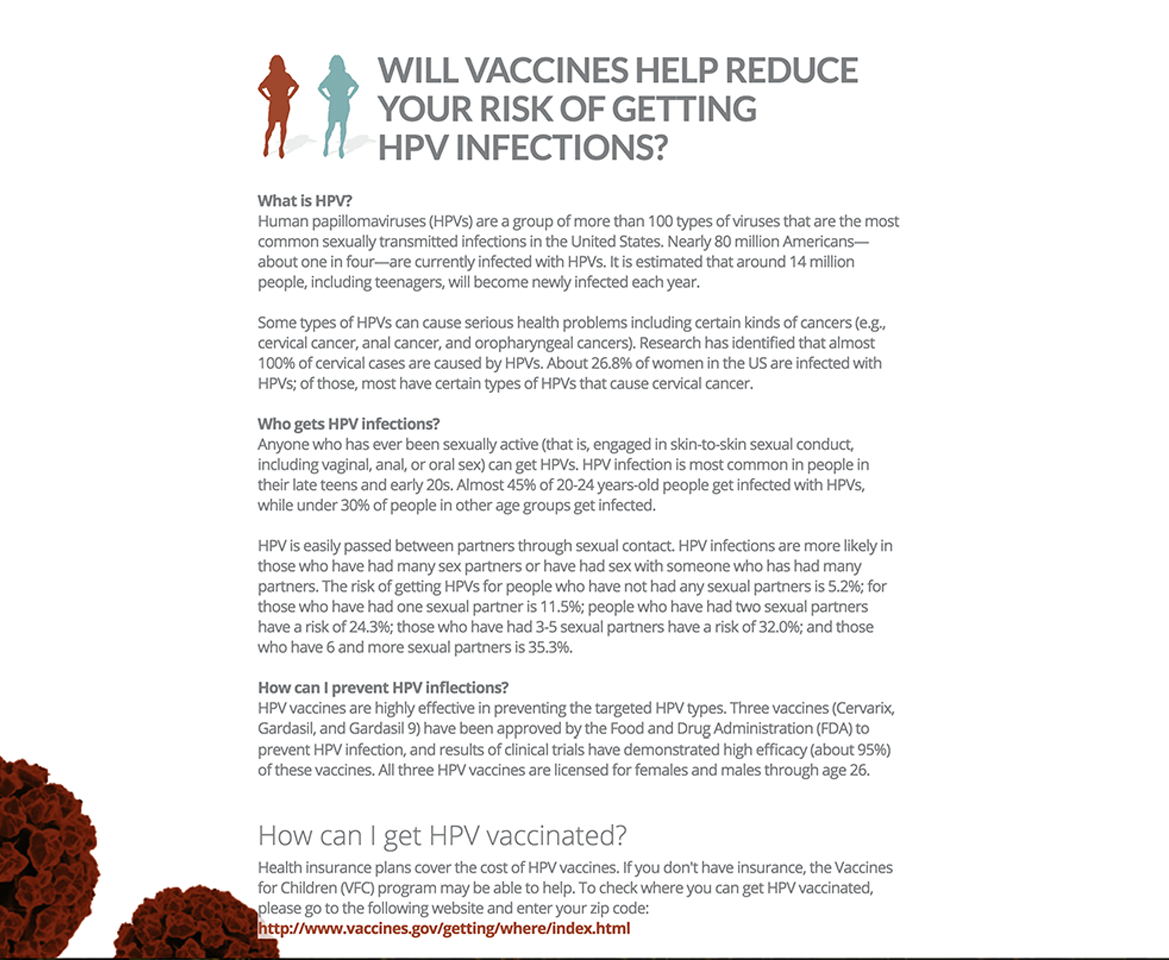
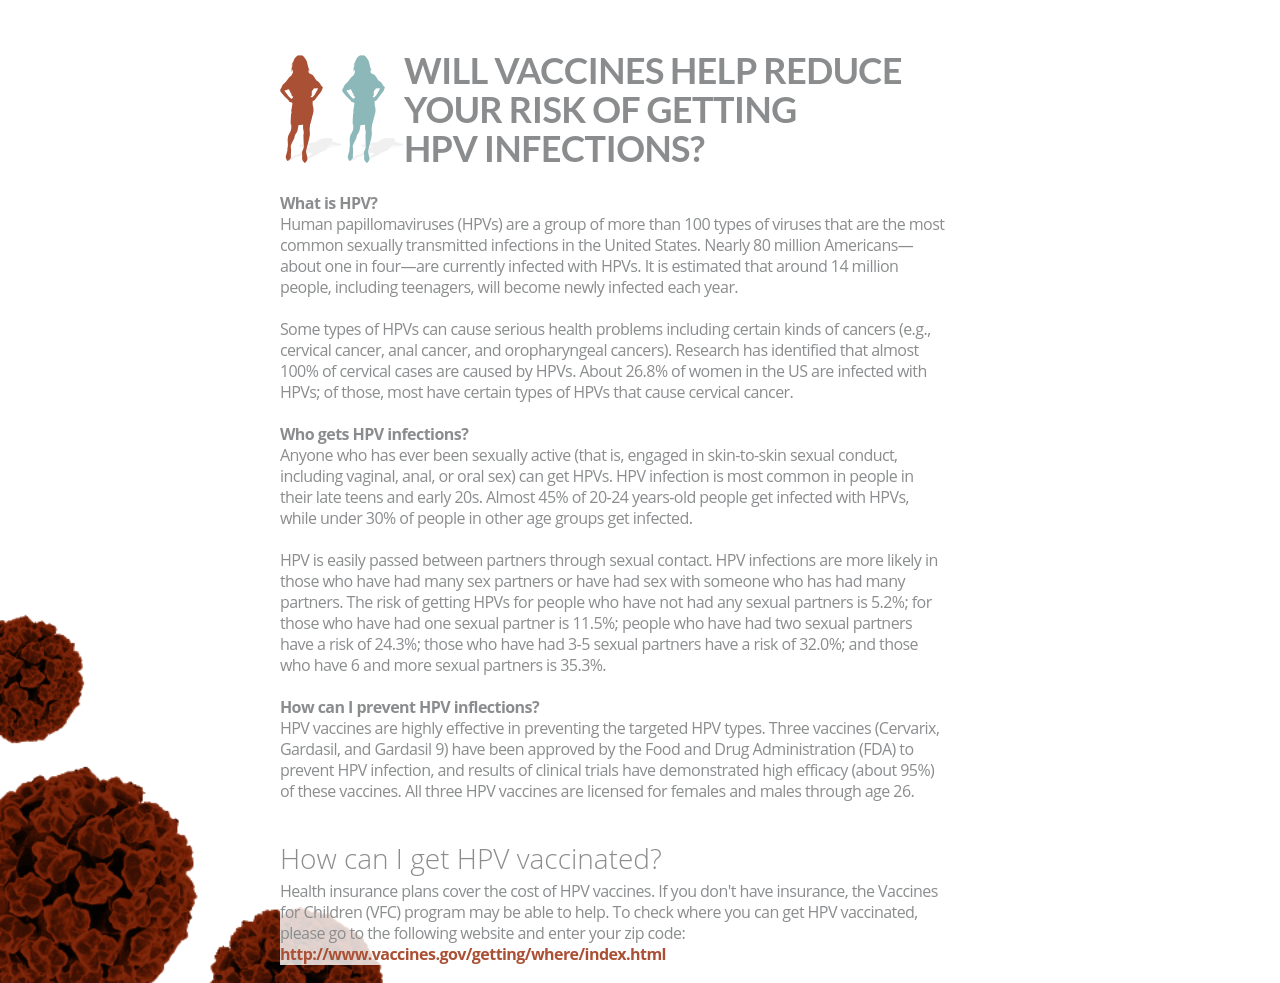
updated text

diff --git a/index.html b/index.html
@@ -22,61 +22,12 @@
 </head>
 
 <body>
-	
-		<div class="container full-height">
-			<div class=v-align-parent>
-				<div class=v-center>
-					<div class="row">
-                        <div class="col-md-2">
-                        
-                        </div>
-						<div class="col-md-8">	
+
                             <div style="overflow:auto;">
-                           <img style=" float:left; display:inline" src="https://cibonaydames.github.io/hpv/img/silueta-red.svg" alt="red lady" width="62"><img style=" float:left; display:inline" src="https://cibonaydames.github.io/hpv/img/silueta-blue.svg" alt="red lady" width="62">
+                           <img style=" float:left; display:inline" src="https://cibonaydames.github.io/hpv-written/img/written.png" alt="graphic" width="">
                               
-                         <span style="font-family: Lato, sans-serif">
-                            <h1 class="mb-10 heading">Will Vaccines Help Reduce</h1>
-                             <h1 class="mb-10 heading">Your Risk of Getting</h1>
-                             <h1 class="mb-10 heading">HPV Infections?</h1></div>
-                           <br>
-                            <div class="subheading mb-20">
-                                
-                                    <p><b>What is HPV?</b>
-                                    <br>
-                                    Human papillomaviruses (HPVs) are a group of more than 100 types of viruses that are the most common sexually transmitted infections in the United States. Nearly 80 million Americans—about one in four—are currently infected with HPVs. It is estimated that around 14 million people, including teenagers, will become newly infected each year. 
-                                    <br><br>
-                                    Some types of HPVs can cause serious health problems including certain kinds of cancers (e.g., cervical cancer, anal cancer, and oropharyngeal cancers). Research has identified that almost 100% of cervical cases are caused by HPVs. About 26.8% of women in the US are infected with HPVs; of those, most have certain types of HPVs that cause cervical cancer.
-                                    </p>
-                                    <br>
-                                    <p><b>Who gets HPV infections?</b>
-                                    <br>
-                                    Anyone who has ever been sexually active (that is, engaged in skin-to-skin sexual conduct, including vaginal, anal, or oral sex) can get HPVs. HPV infection is most common in people in their late teens and early 20s. Almost 45% of 20-24 years-old people get infected with HPVs, while under 30% of people in other age groups get infected.
-                                    <br><br>
-                                    HPV is easily passed between partners through sexual contact. HPV infections are more likely in those who have had many sex partners or have had sex with someone who has had many partners. The risk of getting HPVs for people who have not had any sexual partners is 5.2%; for those who have had one sexual partner is 11.5%; people who have had two sexual partners have a risk of 24.3%; those who have had 3-5 sexual partners have a risk of 32.0%; and those who have 6 and more sexual partners is 35.3%.
-                                    </p>
-                                    <br>
-                                    <p>
-                                    <b>How can I prevent HPV inflections?</b><br>
-                                    HPV vaccines are highly effective in preventing the targeted HPV types. Three vaccines (Cervarix, Gardasil, and Gardasil 9) have been approved by the Food and Drug Administration (FDA) to prevent HPV infection, and results of clinical trials have demonstrated high efficacy (about 95%) of these vaccines. All three HPV vaccines are licensed for females and males through age 26.
-                                    </p>    
-                                <p>
-                                    <br><br>
-                                    <h2 class="mb-10 heading">How can I get HPV vaccinated?</h2>
                             
-                            
-                                Health insurance plans cover the cost of HPV vaccines. If you don't have insurance, the Vaccines for Children (VFC) program may be able to help. To check where you can get HPV vaccinated, please go to the following website and enter your zip code: <font color="#AA5135"><b>http://www.vaccines.gov/getting/where/index.html</b></font>
-                                    </p>
-                              </div>  
-						</div>
-						
-						<div class="col-md-2">
-                            
-                              </div></div>
-							</div>
-						</div>
-					</div>
-				</div>
-			</div>
+                              </div>
 
 	
 	<script src="http://ajax.googleapis.com/ajax/libs/jquery/1.11.1/jquery.min.js"></script>

diff --git a/css/main.css b/css/main.css
@@ -17,7 +17,7 @@ label {
 
 body {
     background-color: rgba(255,255,255, 0.8);
-    background-image: url("https://cibonaydames.github.io/hpv/img/bg3.png");
+    
     font-family: sans-serif;
 }
 
@@ -92,7 +92,7 @@ tr, td {
 html,
 body {
 	
-    background-image: url("https://cibonaydames.github.io/hpv/img/bg3.png");
+    
     background-position: left bottom; /*Positioning*/
     background-color: rgba(255,255,255, 0.8);
     background-repeat: no-repeat;
